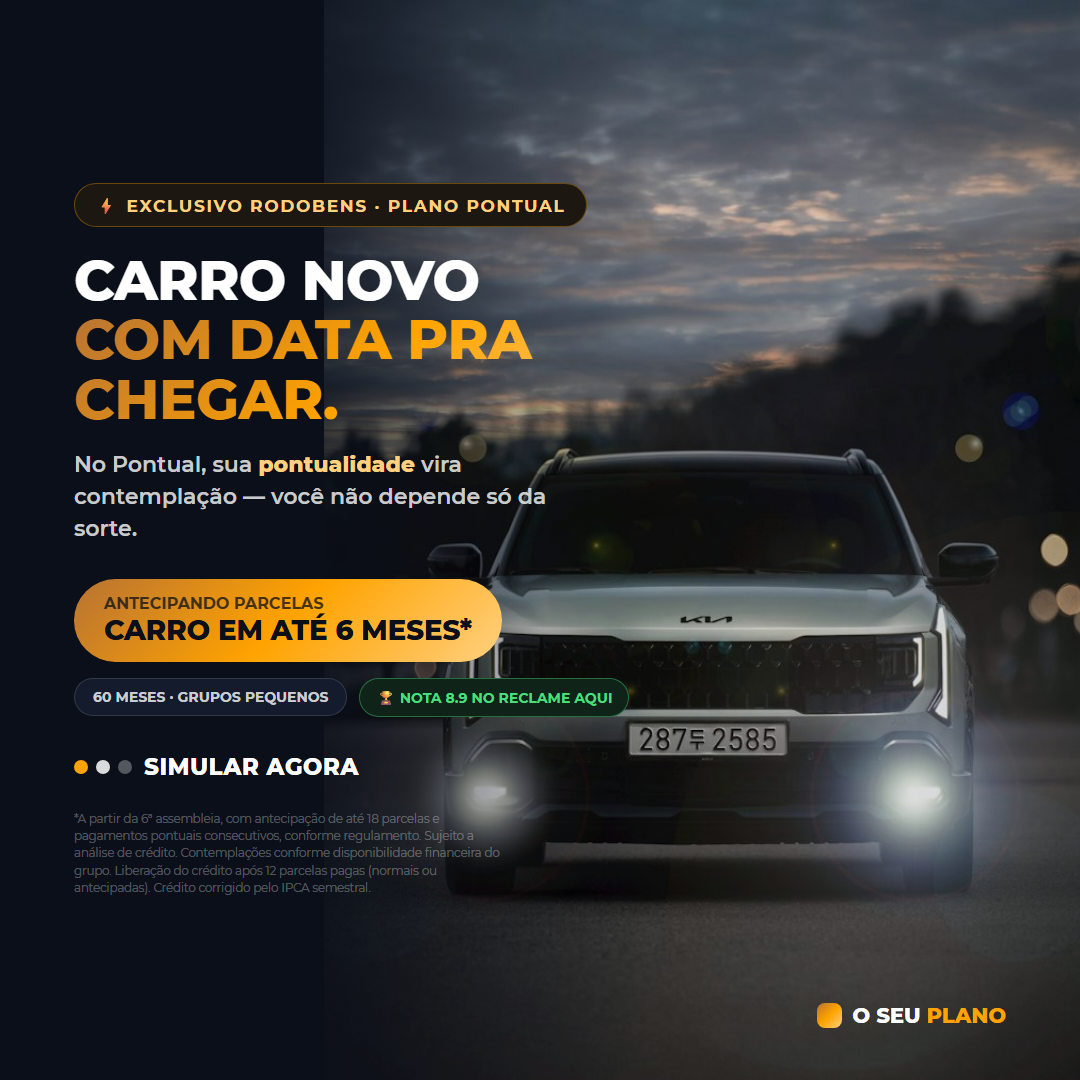
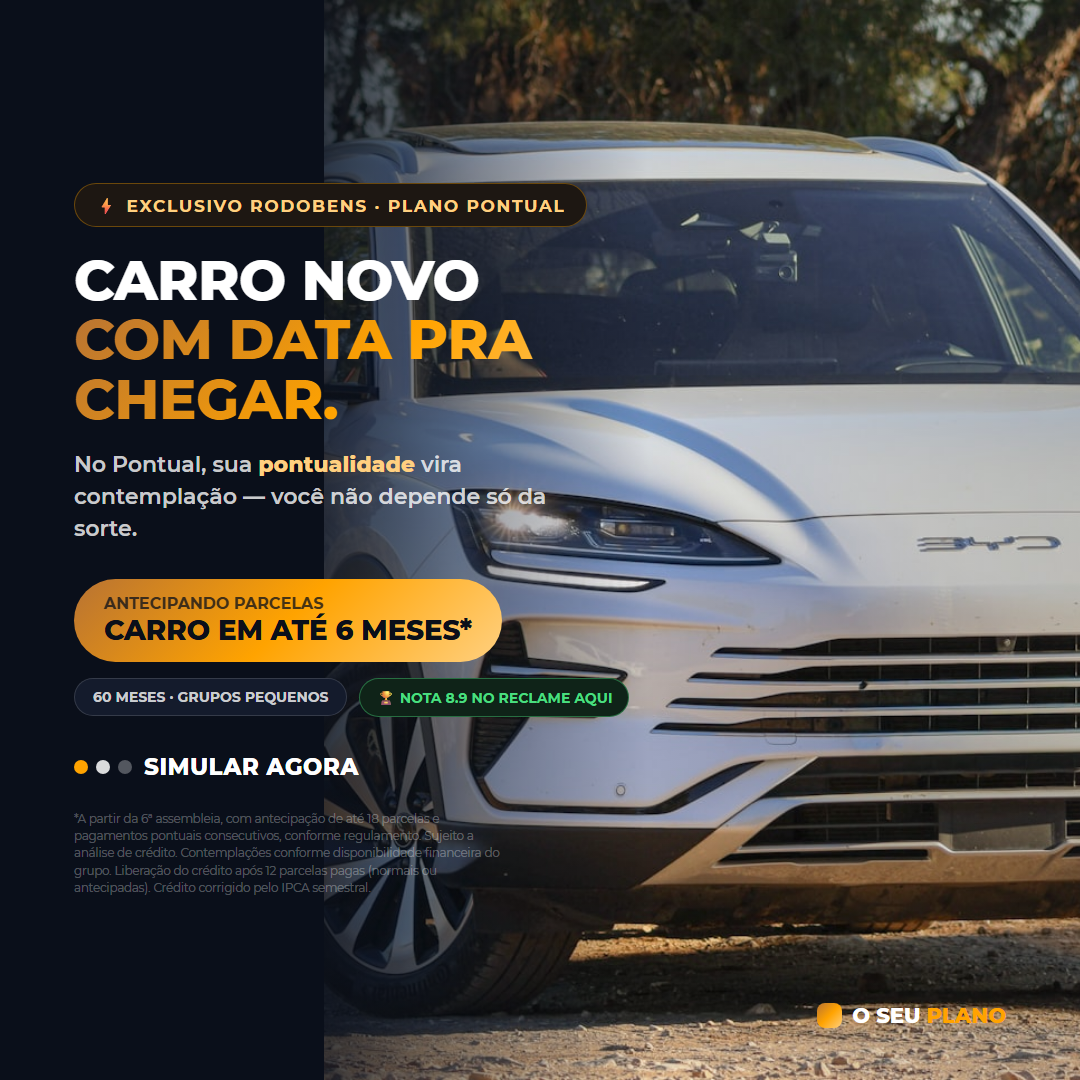
Completa Plano Pontual para 30 criativos e adequa fotos ao mercado BR
- Adiciona conceitos 16-30 (7 com foto + 8 cards de dados), cobrindo
  carro de trabalho, negociacao a vista, 2o carro eletrico, frota PJ,
  degrau intermediario (Grupo 6795), zero juros compostos, sem entrada,
  atalho da 6a assembleia, correcao IPCA, crescimento do mercado (ABAC)
  e urgencia de vagas.
- Troca fotos genericas/de luxo por BYD (Dolphin/SUV, nitidas, sem
  desfoque) e cenas reais de recarga eletrica, com foco no carro.
  Copy passa a apelar para eletricos e marcas chinesas populares no
  Brasil (BYD, GWM, CAOA Changan, Geely) em vez de ostentacao.
- legendas.txt e README atualizados com os 15 novos blocos e a diretriz
  de fotos para o padrao brasileiro.

diff --git a/redes-sociais/plano-pontual/README.md b/redes-sociais/plano-pontual/README.md
@@ -1,9 +1,18 @@
 # Plano Pontual — Automóveis (30 criativos de alta conversão)
 
-15 conceitos × 2 formatos (feed 1080×1080 + story 1080×1920) = 30 peças,
+30 conceitos × 2 formatos (feed 1080×1080 + story 1080×1920) = 60 peças,
 todos baseados nas **tabelas oficiais Rodobens** e na mecânica oficial do
 Plano Pontual. Legendas prontas (com CTA duplo WhatsApp + site) em
 `legendas.txt` nesta pasta.
+
+**Realidade brasileira nas fotos:** sem carros de luxo/ostentação — as fotos
+usadas são de um BYD Dolphin/SUV (nítido, sem desfoque, foco no carro) e
+cenas reais de recarga elétrica. Textos apelam pra inovação das marcas
+chinesas que dominam o mercado brasileiro hoje (BYD, GWM, CAOA Changan,
+Geely) e pro ganho real do cliente com elétrico (custo de recarga vs.
+gasolina). Ao trocar fotos no futuro, manter esse padrão: carro sempre em
+foco nítido, sem blur artístico, marcas populares no Brasil, nunca
+supercarro/importado de luxo.
 
 ## Dados-fonte (tabelas oficiais, abril/2026 — dados perecíveis, revisar antes de reusar)
 
@@ -56,6 +65,25 @@ Fontes: [página oficial do Consórcio Pontual](https://rodobens.com.br/consorci
 13. `pontual-13-100mil` — R$ 100 mil por R$ 2.148,15
 14. `pontual-14-custo-235` — 23,5% de custo total transparente
 15. `pontual-15-seguro` — seguro prestamista incluso
+
+**Com foto (rodada 2 — foco em elétricos/marcas chinesas e novos públicos):**
+16. `pontual-16-carro-de-trabalho` — carro de trabalho vira patrimônio (motorista de app, entregador)
+17. `pontual-17-24-em-dia` — caminho sem antecipar: 24 parcelas pontuais consecutivas migram sozinhas
+18. `pontual-18-negocia-a-vista` — carta de crédito = poder de negociação de quem paga à vista
+19. `pontual-19-6-meses-chave` — reforço do atalho de 6 meses, com o regulamento em destaque
+20. `pontual-20-segundo-carro` — 2º carro da família é elétrico, recarga barata ajuda a pagar a parcela
+21. `pontual-21-frota-pj` — frota elétrica pra empresário, caixa preservado
+22. `pontual-22-sorte-ao-vivo` — sorteio manual real + pontualidade = dois caminhos até o carro
+
+**Cards de dados (rodada 2):**
+23. `pontual-23-parcela-1082` — R$ 50 mil por R$ 1.082,81/mês (degrau do meio, Grupo 6795)
+24. `pontual-24-zero-compostos` — zero juros compostos, custo fixo do início ao fim
+25. `pontual-25-sem-entrada` — sem 20-30% de entrada de banco, só a 1ª parcela
+26. `pontual-26-6a-assembleia` — o atalho oficial: régua a partir da 6ª assembleia
+27. `pontual-27-ipca` — correção pelo índice público, sem letra miúda
+28. `pontual-28-mercado-alta` — dado ABAC: +10,2% em 12 meses no consórcio de veículos leves
+29. `pontual-29-3-faixas` — os 3 grupos/faixas de crédito lado a lado
+30. `pontual-30-custo-de-esperar` — urgência: cada mês de espera é uma assembleia a menos
 
 ## Compliance (não remover das peças)
 
